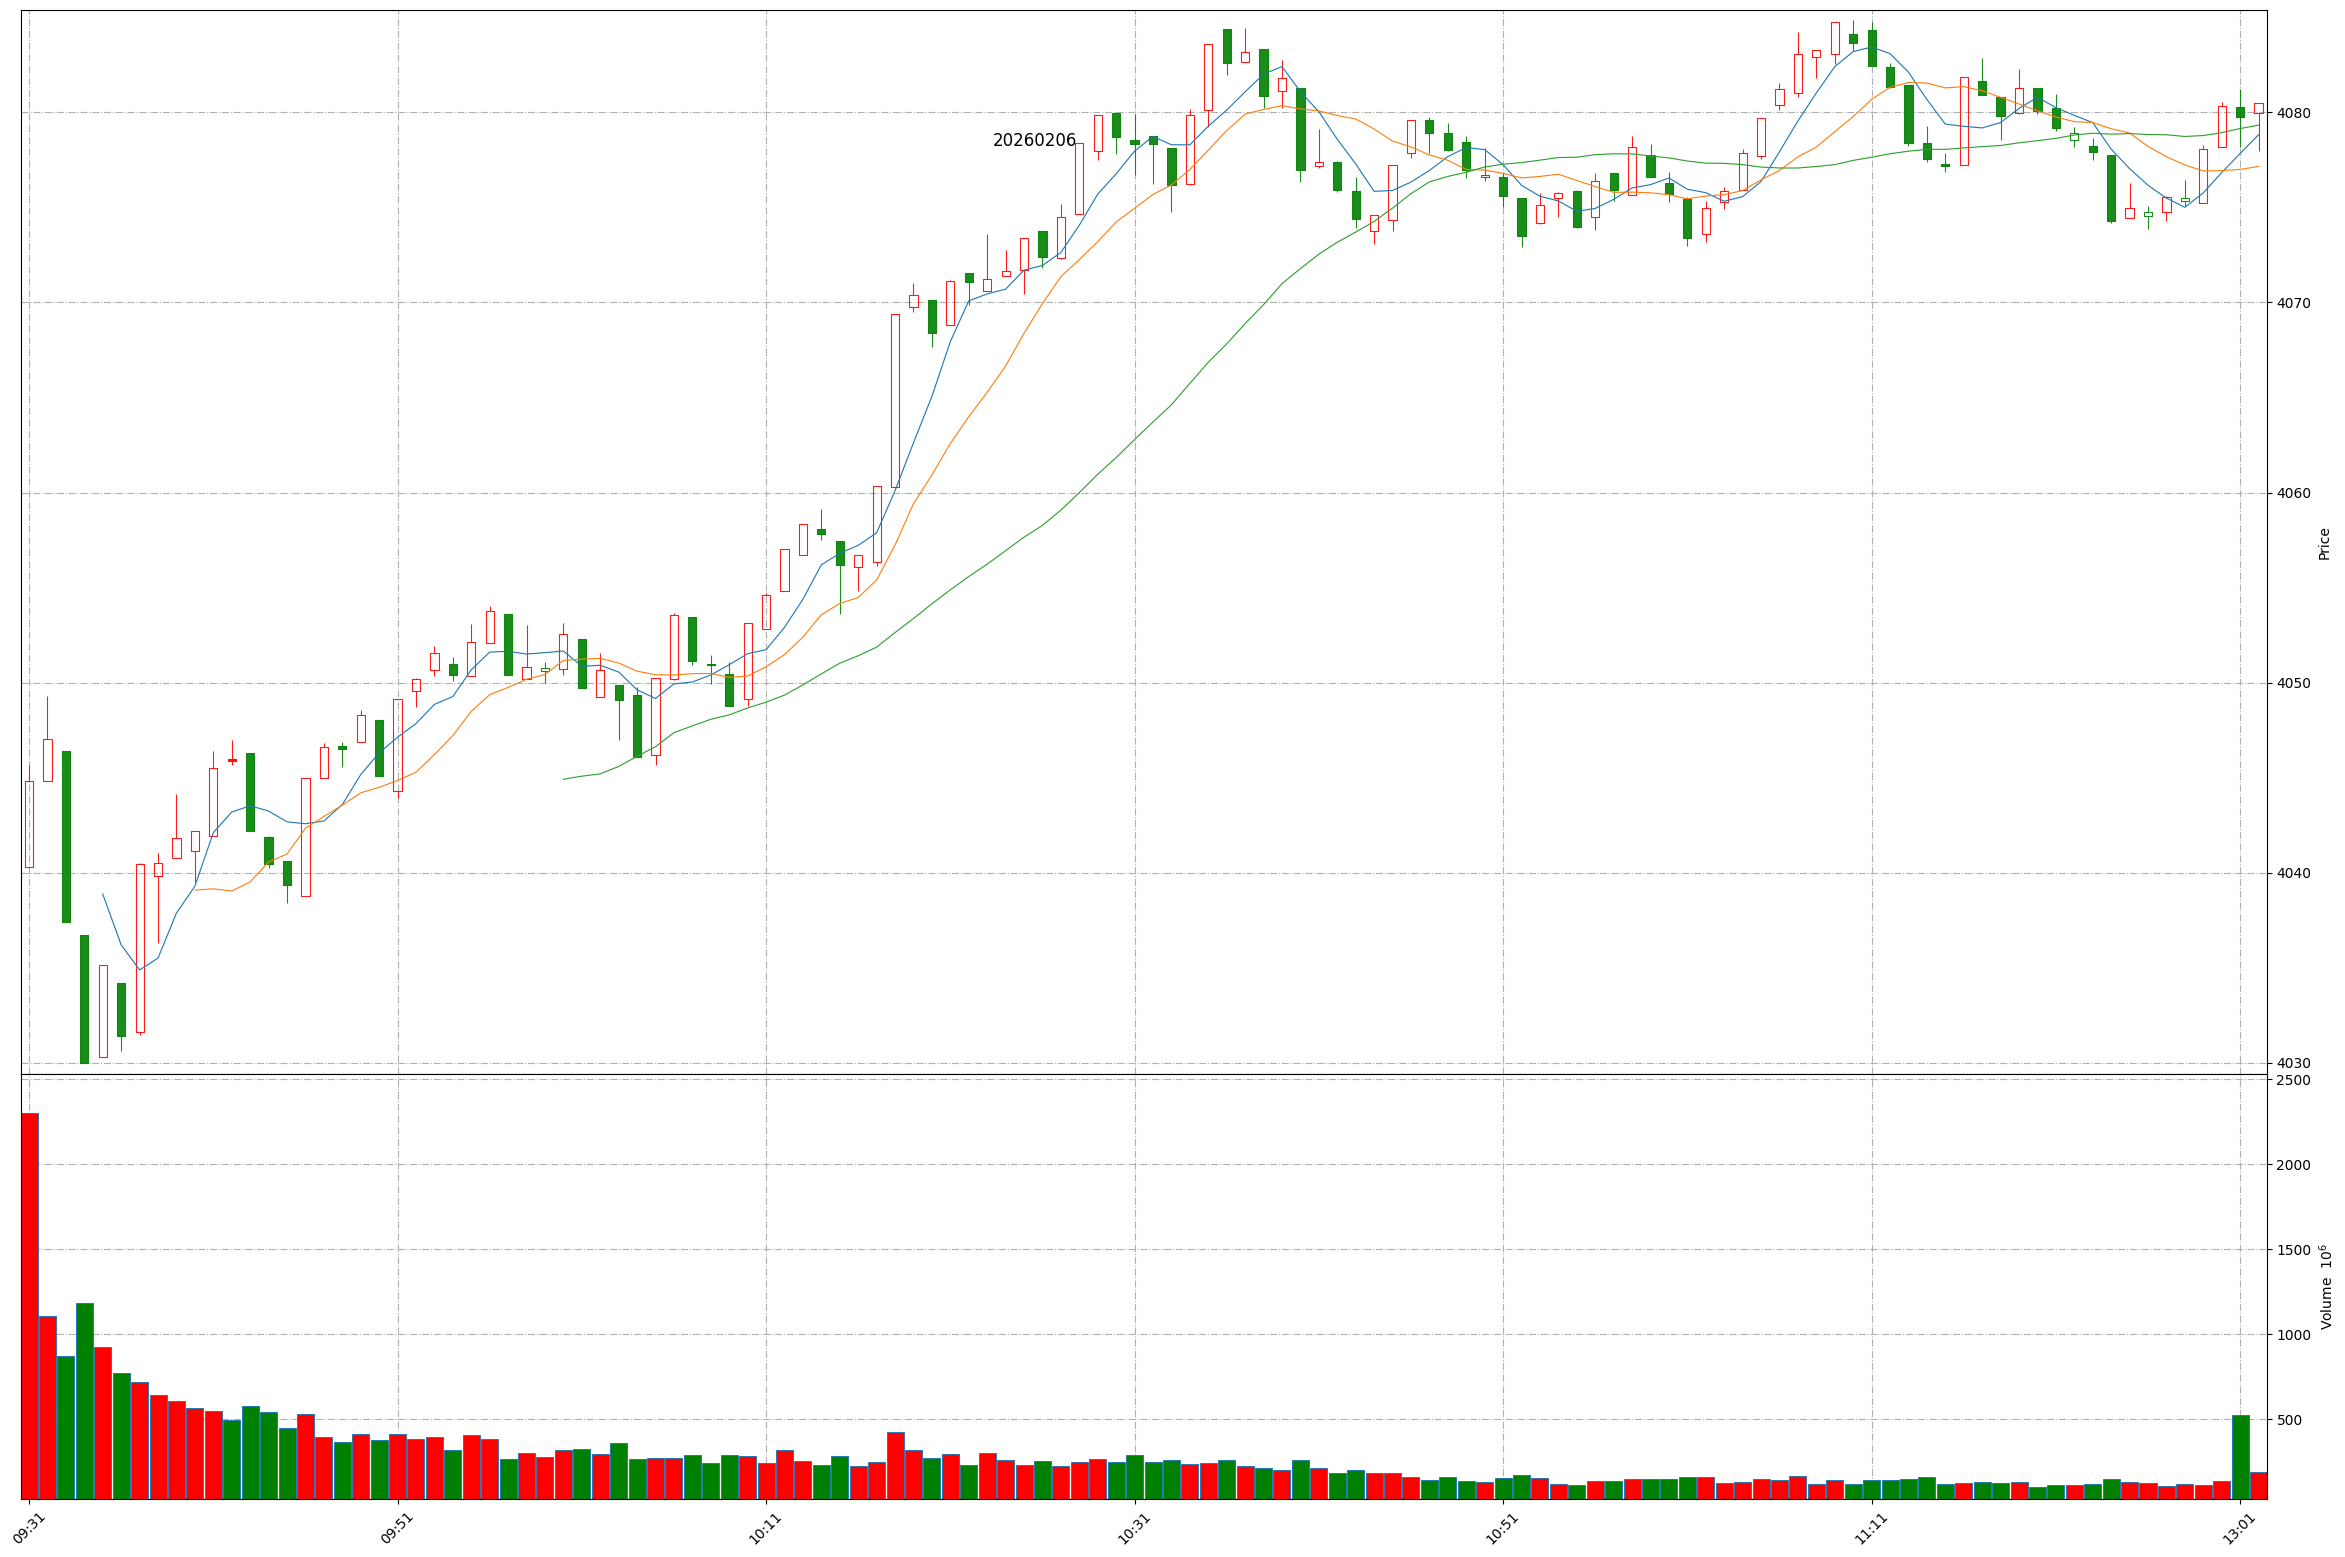
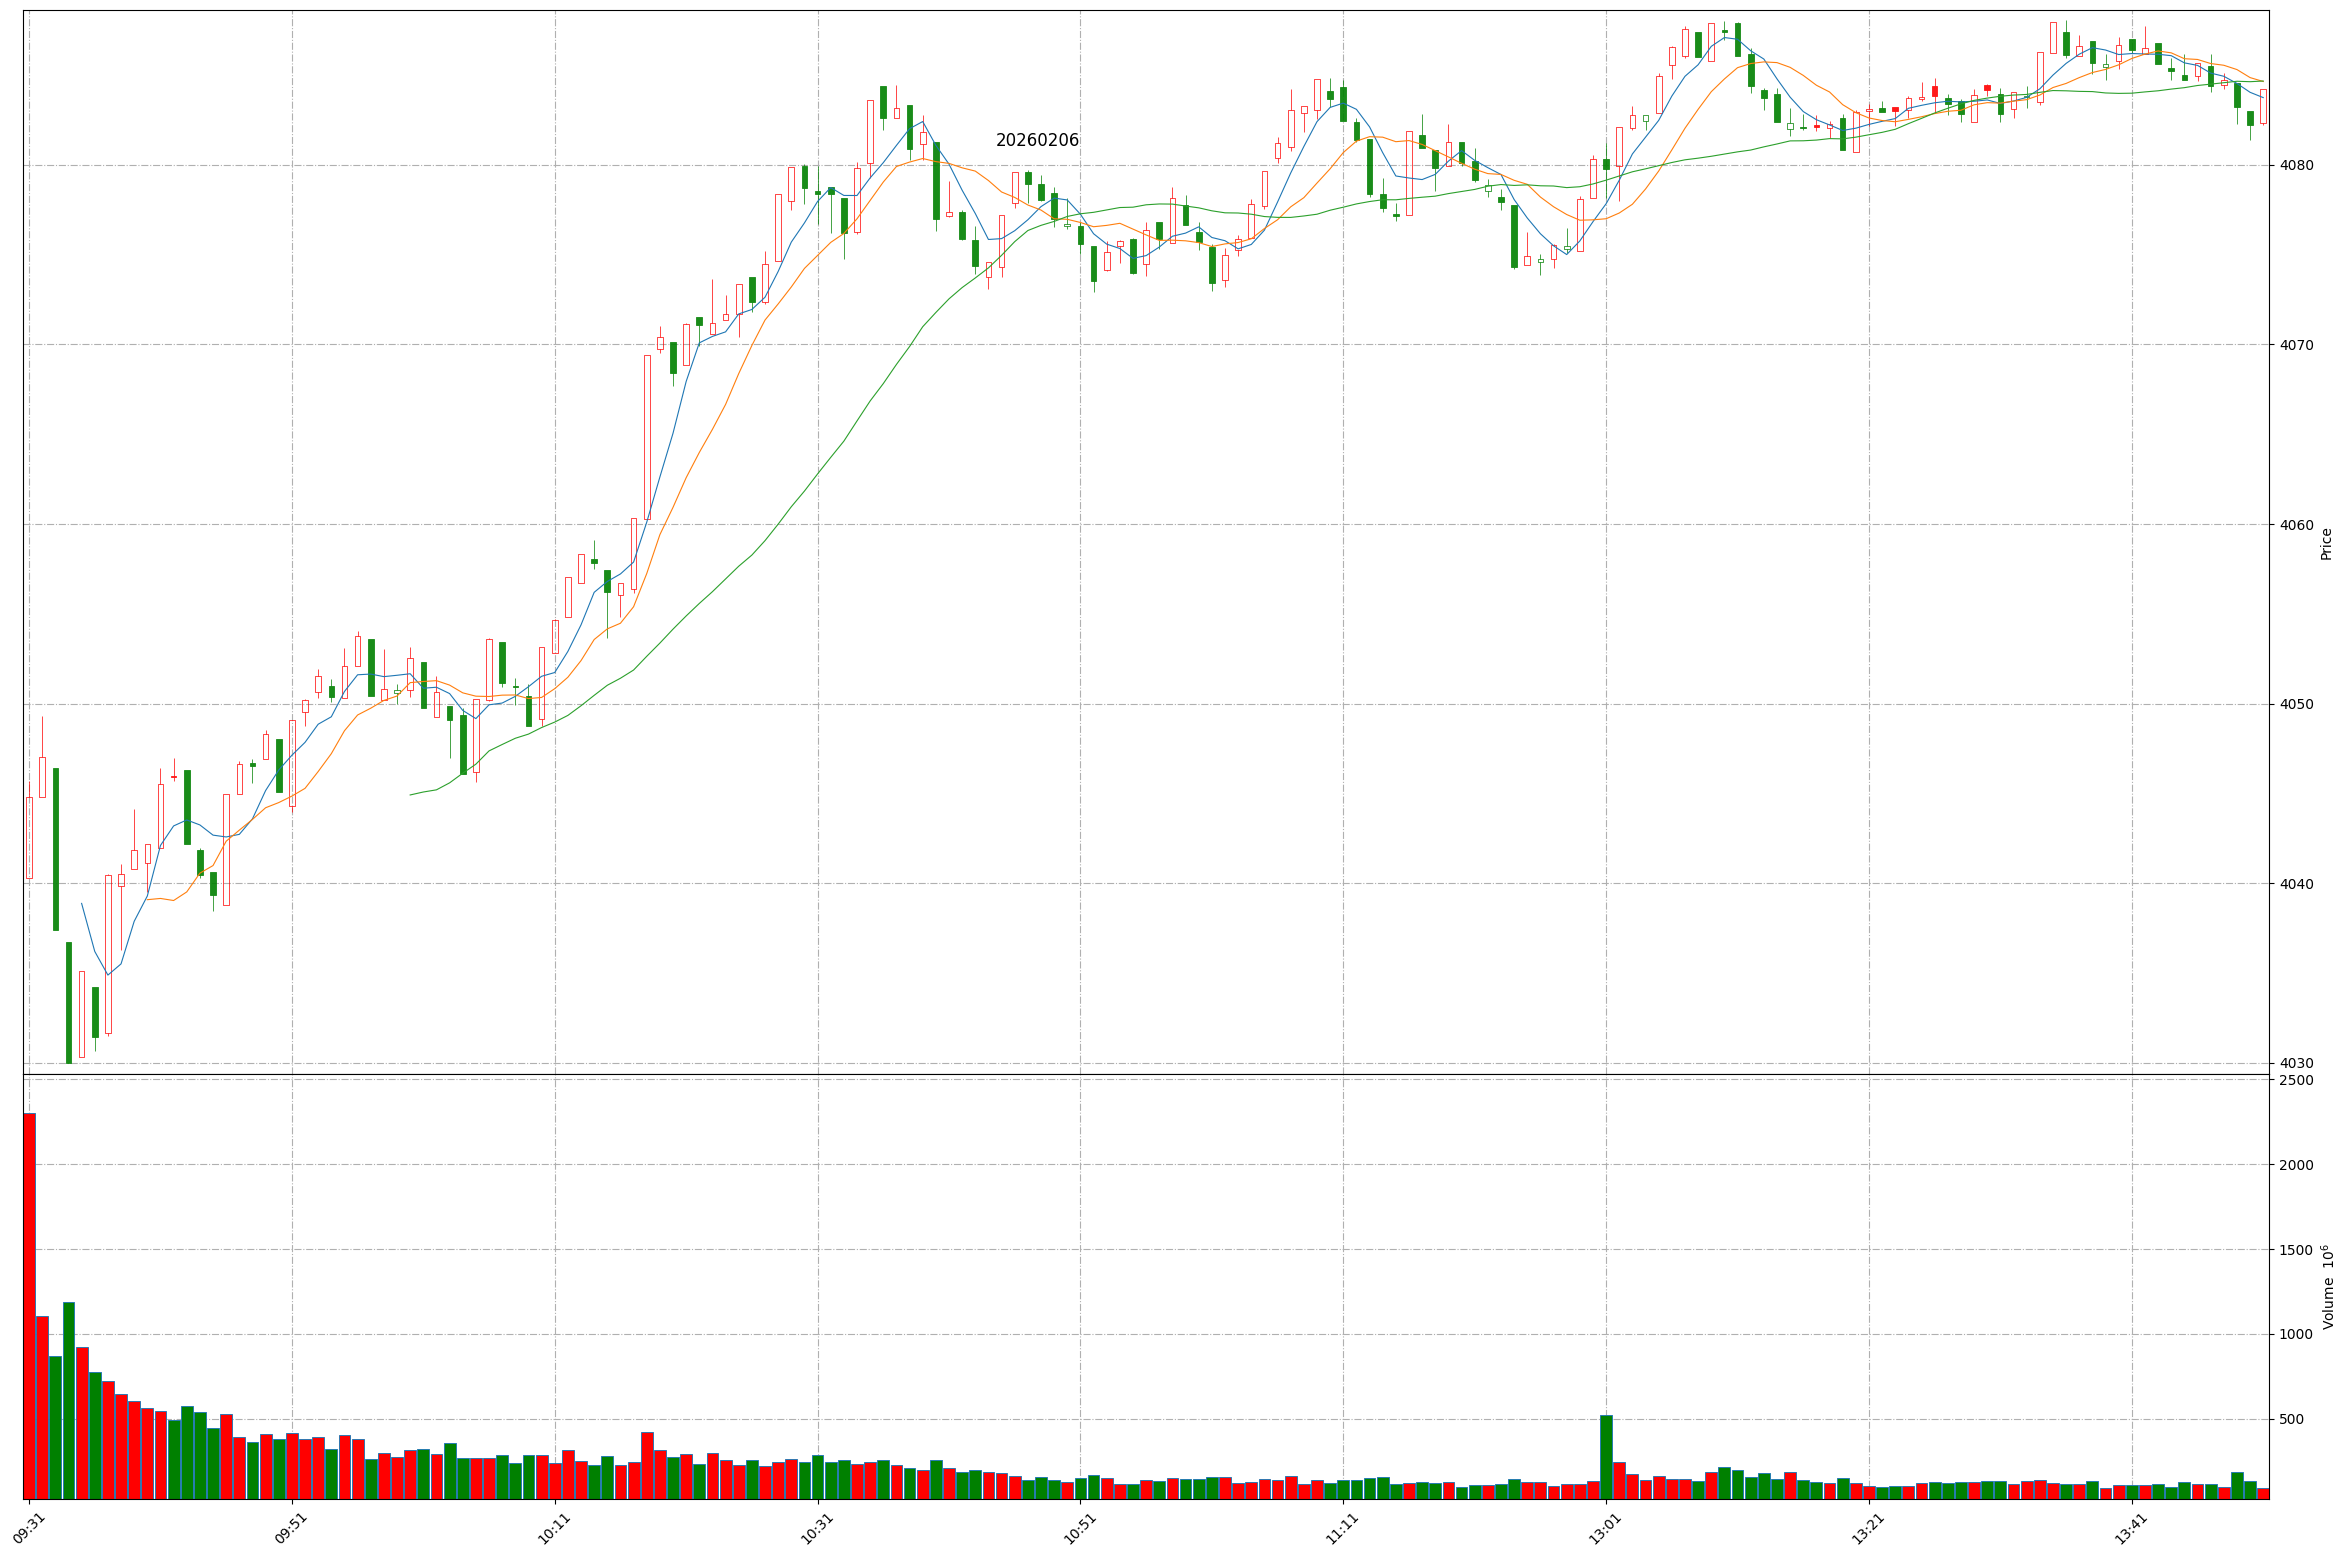
Github action update at 2026-02-06 13:51:02.

diff --git a/README.md b/README.md
@@ -1,11 +1,11 @@
 
 # Daily-A-share-market-quotes 每日 A 股指数（5min 更新）- 20260206
 
-### 上证指数 20260206 13:1
+### 上证指数 20260206 13:51
 ![](./fig/2026/2/20260206-sh000001.png)
 
-### 深证成指 20260206 13:1
+### 深证成指 20260206 13:51
 ![](./fig/2026/2/20260206-sz399001.png)
 
-### 北证50 20260206 13:1
+### 北证50 20260206 13:51
 ![](./fig/2026/2/20260206-bj899050.png)
